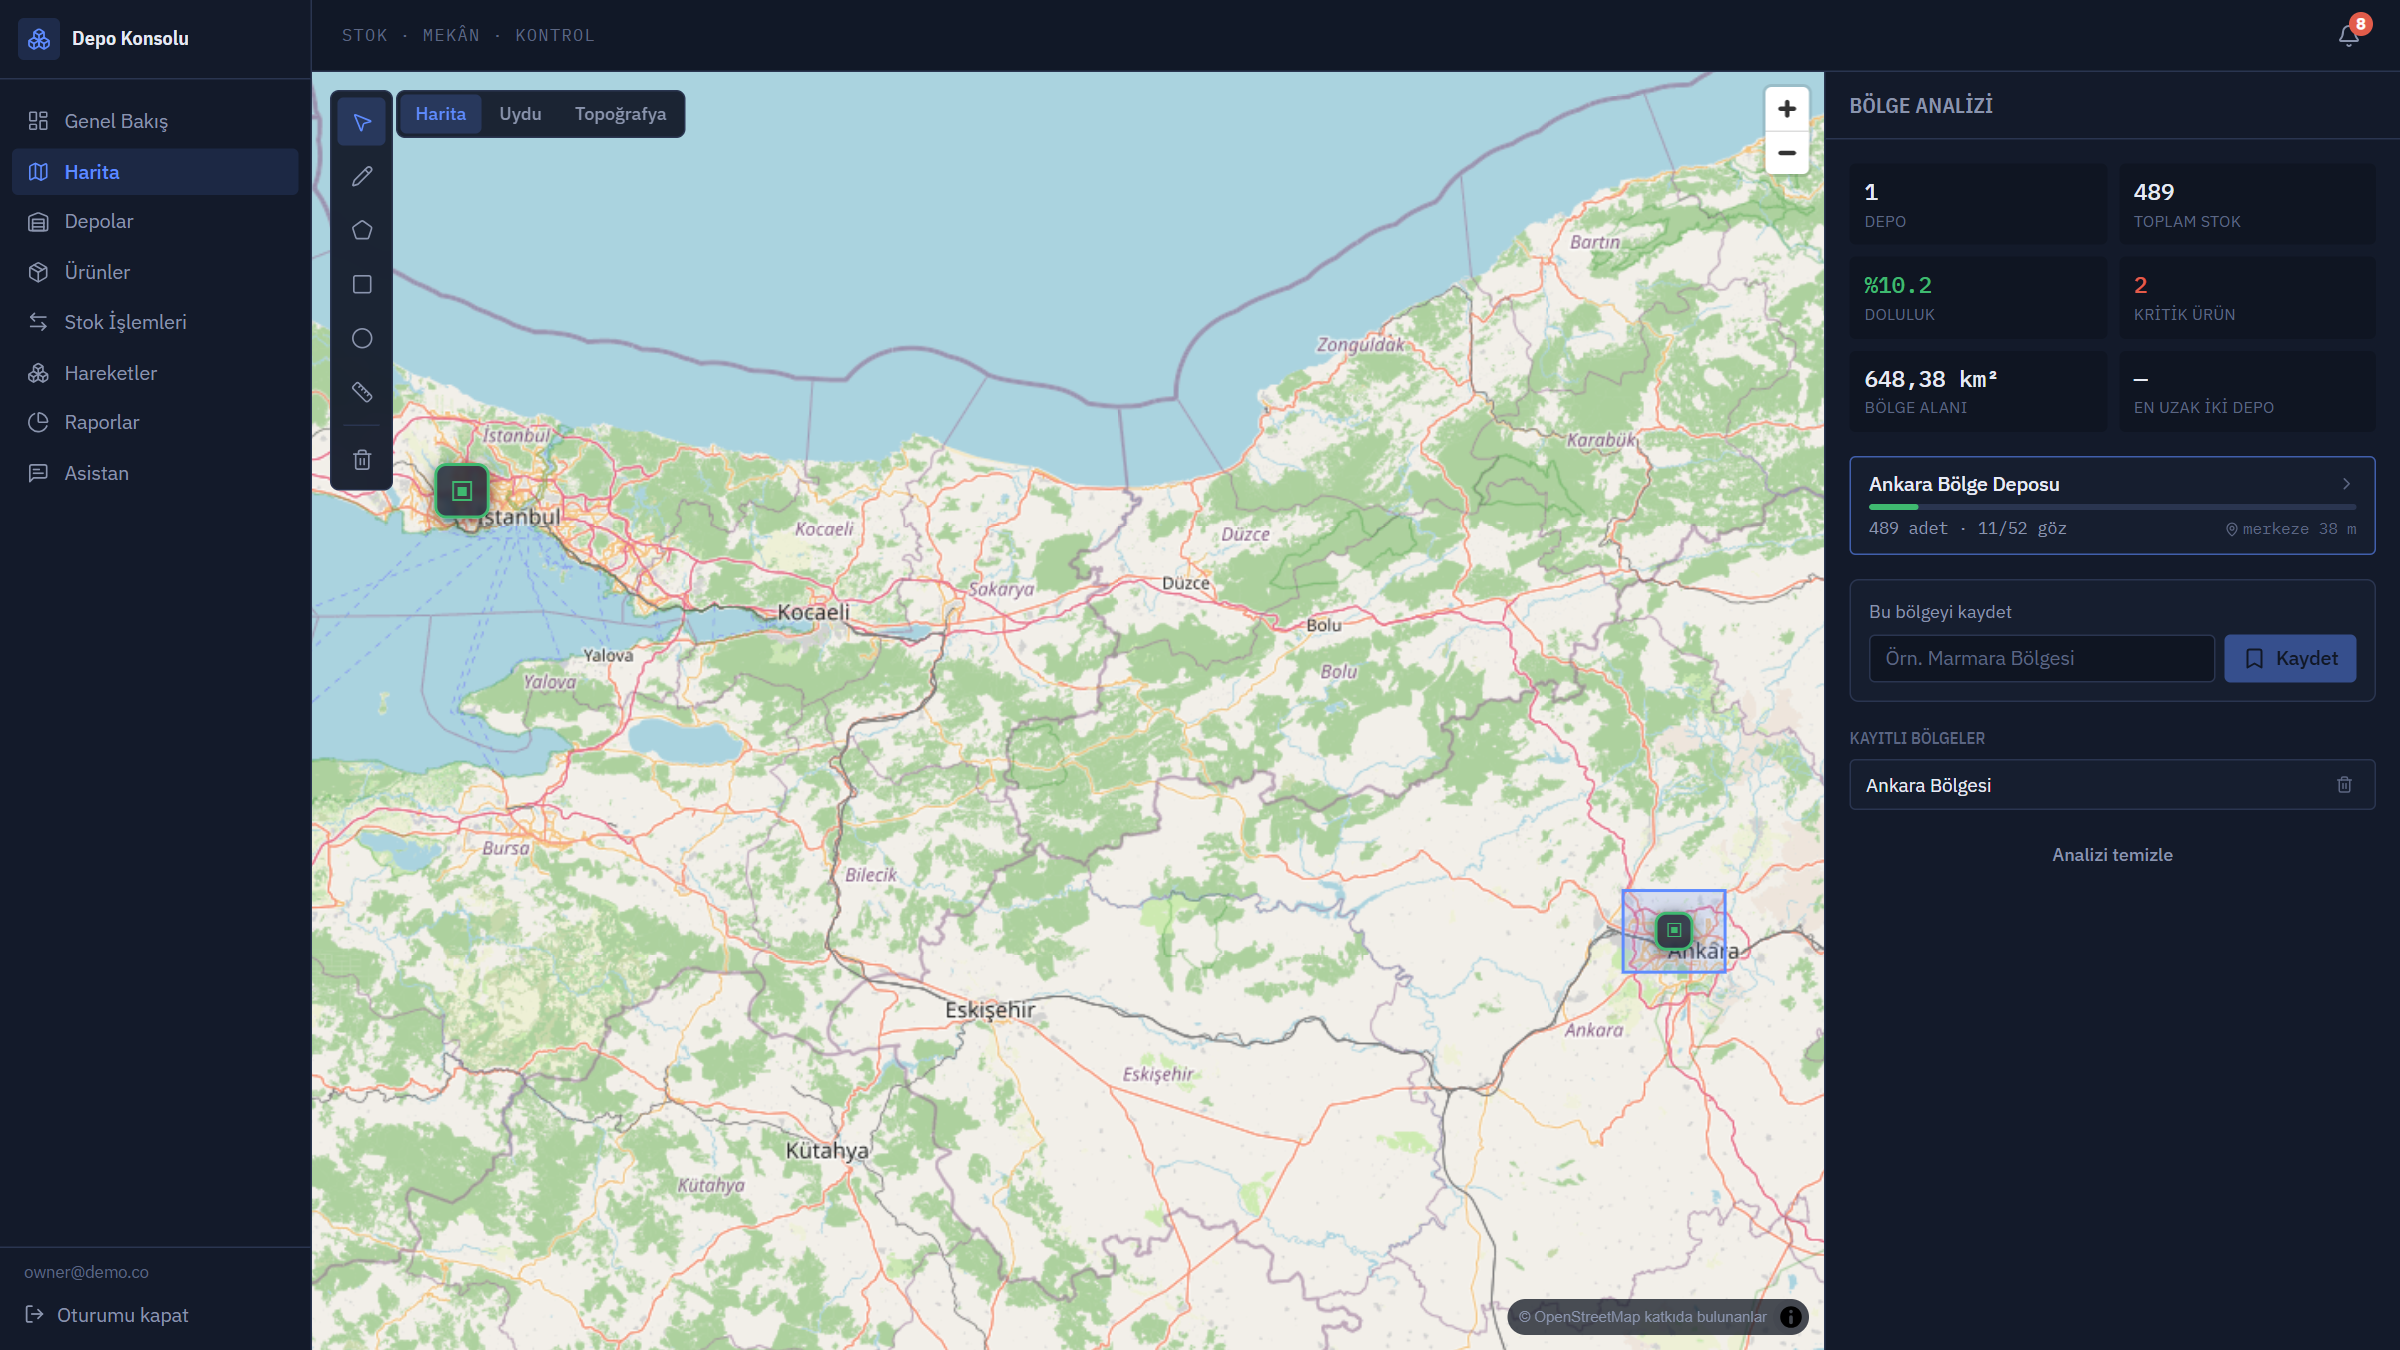
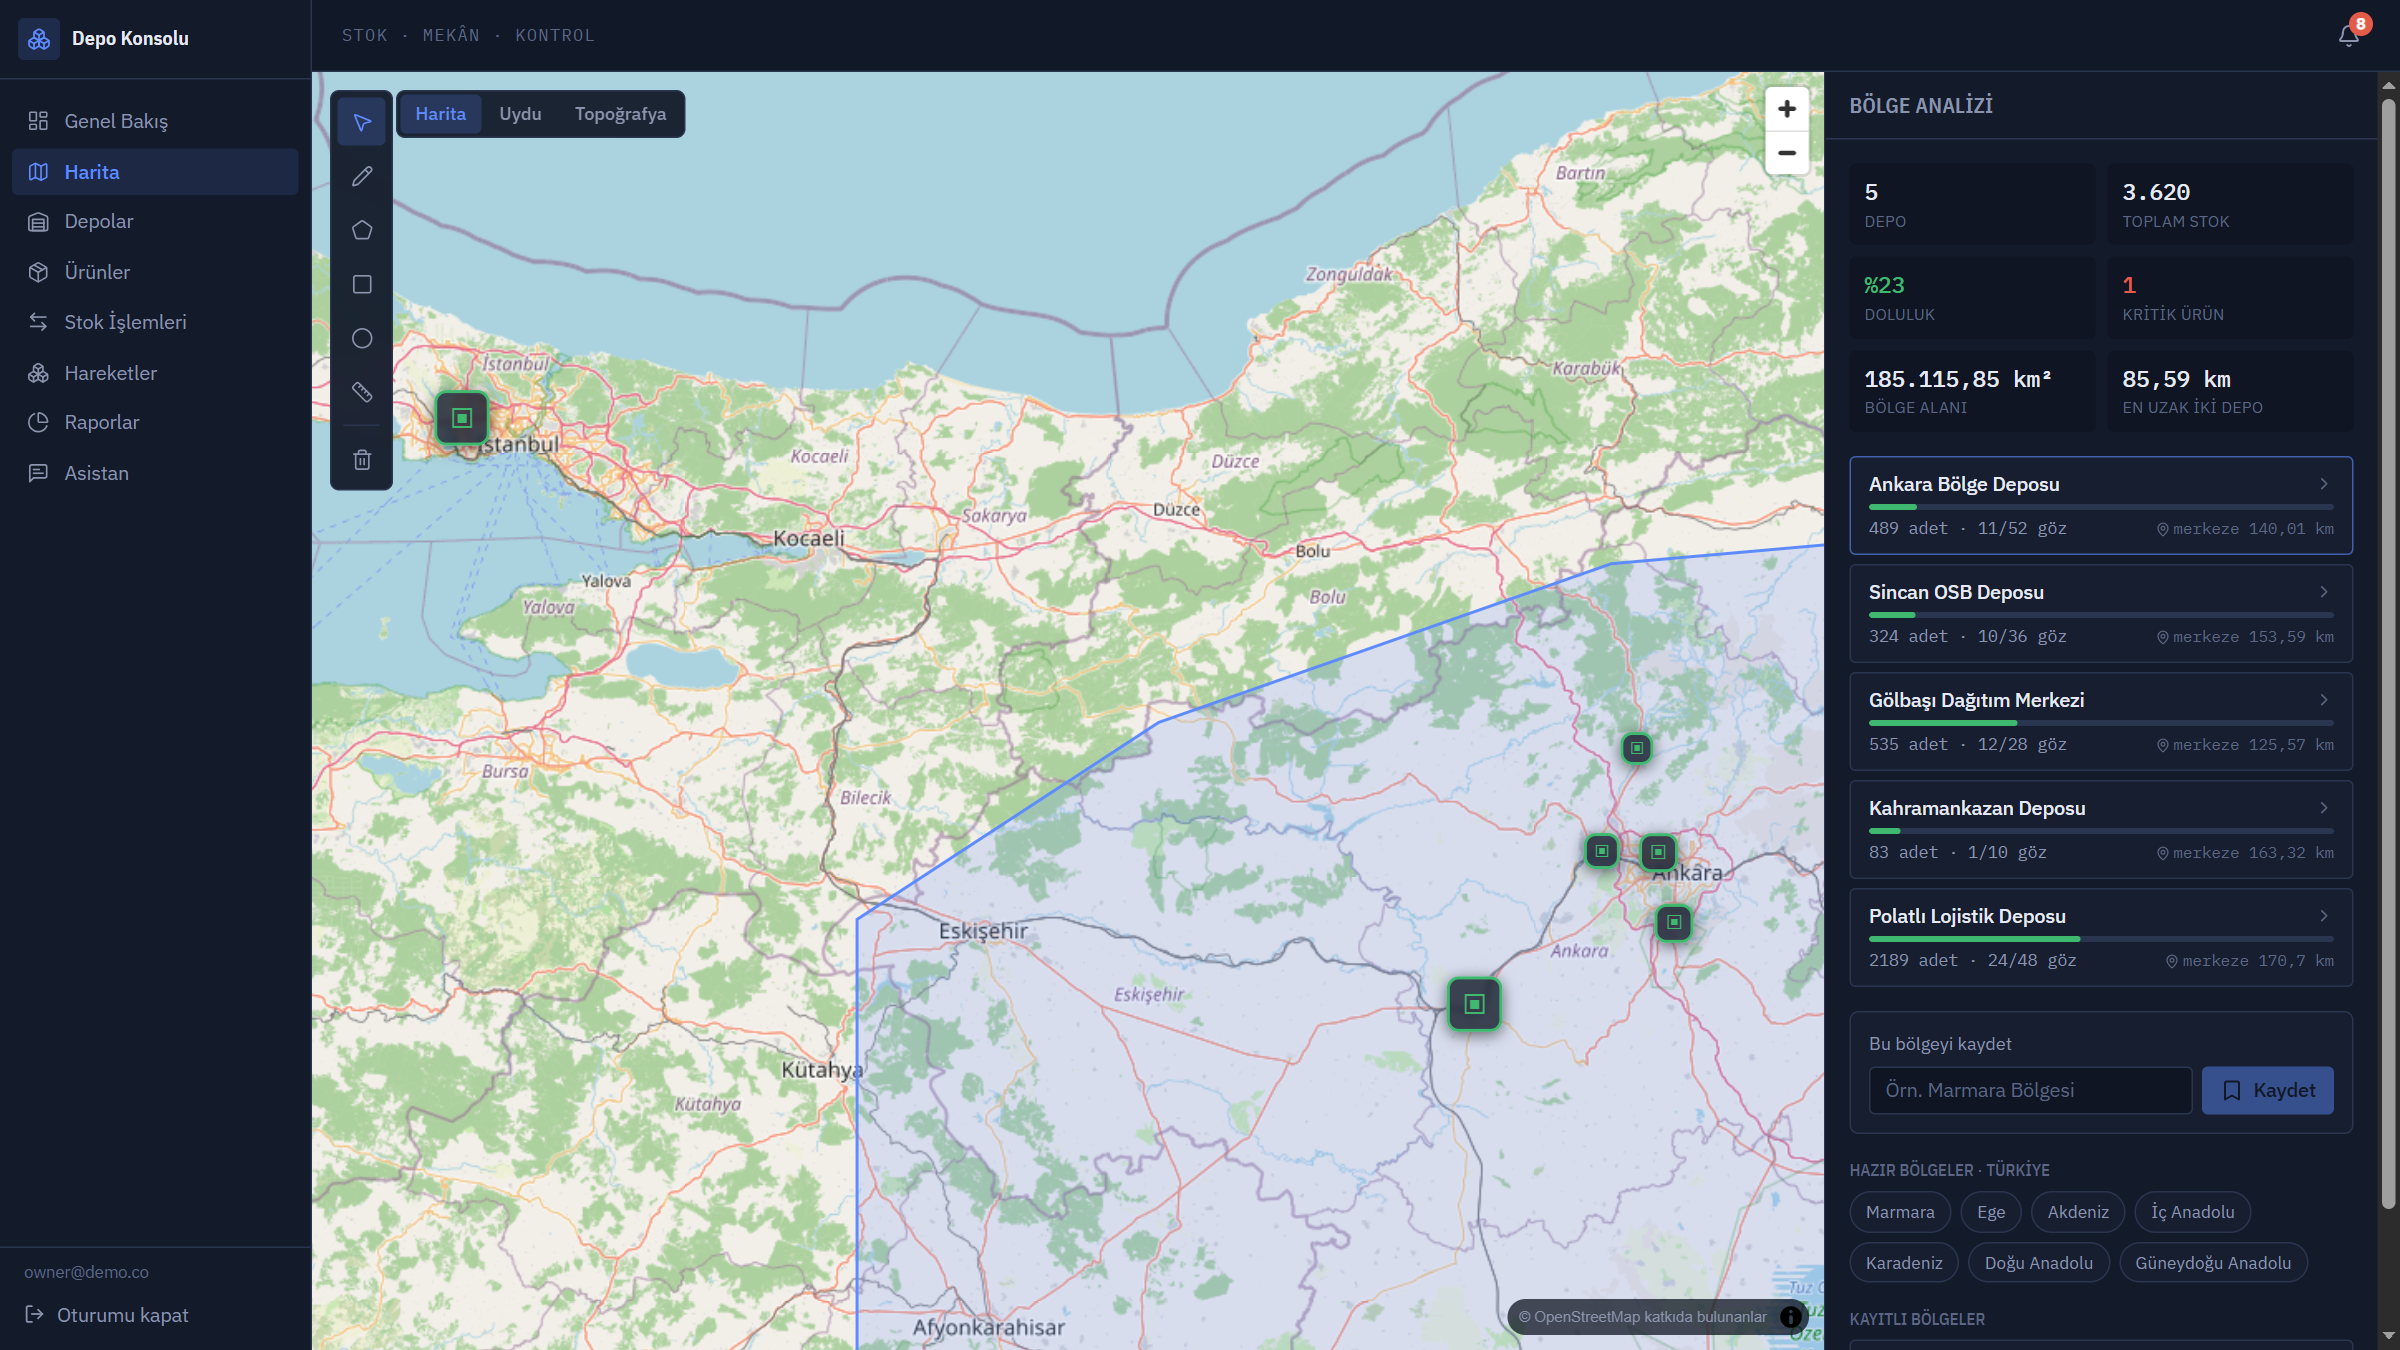
Bölgesel raporlama preset'leri (Türkiye'nin 7 coğrafi bölgesi) + Ankara demo depoları
- Harita çalışma alanına tek tıkla bölge analizi: Marmara, Ege, Akdeniz, İç Anadolu,
  Karadeniz, Doğu Anadolu, Güneydoğu Anadolu hazır poligonları (turkeyRegions.ts)
- Preset doğruluk testleri: her bölge kendi merkez şehrini içerir, komşu bölgeye taşmaz,
  alanlar makul aralıkta (30k-300k km²)
- Seed'e 4 ek Ankara deposu (Sincan OSB, Gölbaşı, Kahramankazan, Polatlı) — isim bazlı
  idempotent; İç Anadolu bölge raporu artık 5 depoyu kapsıyor
- README harita görseli İç Anadolu analiziyle yenilendi

diff --git a/frontend/src/features/map/turkeyRegions.ts b/frontend/src/features/map/turkeyRegions.ts
@@ -1,0 +1,82 @@
+/** Türkiye'nin 7 coğrafi bölgesi — hazır analiz preset'leri.
+ *
+ * Poligonlar yaklaşık bölge sınırlarıdır (analiz amaçlı, idari sınır değil).
+ * Ring'ler saat yönünün tersine, kapatma noktası olmadan tutulur;
+ * kapatmayı geometry.ts / backend halleder.
+ */
+
+import type { LatLng } from "@/types";
+
+export interface RegionPreset {
+  id: string;
+  name: string;
+  ring: LatLng[];
+}
+
+const ring = (pairs: [number, number][]): LatLng[] =>
+  pairs.map(([lat, lng]) => ({ lat, lng }));
+
+export const TURKEY_REGIONS: RegionPreset[] = [
+  {
+    id: "marmara",
+    name: "Marmara",
+    ring: ring([
+      [42.1, 26.0], [42.0, 28.0], [41.5, 29.6], [41.2, 31.4],
+      [40.3, 31.1], [39.8, 30.1], [39.5, 28.6], [39.5, 27.0],
+      [40.0, 26.0],
+    ]),
+  },
+  {
+    id: "ege",
+    name: "Ege",
+    ring: ring([
+      [39.6, 26.1], [39.5, 28.0], [39.0, 29.4], [38.0, 30.0],
+      [36.9, 29.6], [36.5, 27.2], [37.6, 26.6], [38.4, 26.0],
+    ]),
+  },
+  {
+    id: "akdeniz",
+    name: "Akdeniz",
+    ring: ring([
+      [36.9, 29.6], [38.0, 30.1], [38.4, 31.8], [37.4, 34.0],
+      [38.1, 36.2], [37.9, 37.0], [36.1, 36.4], [35.9, 35.7],
+      [36.1, 32.0], [36.1, 30.0],
+    ]),
+  },
+  {
+    id: "ic-anadolu",
+    name: "İç Anadolu",
+    ring: ring([
+      [39.8, 30.1], [40.3, 31.1], [40.7, 32.6], [40.8, 34.1],
+      [40.3, 36.1], [39.9, 38.6], [38.9, 38.4], [38.1, 36.2],
+      [37.4, 34.0], [38.4, 31.8], [38.0, 30.1],
+    ]),
+  },
+  {
+    id: "karadeniz",
+    name: "Karadeniz",
+    ring: ring([
+      [41.2, 31.4], [42.2, 35.1], [41.2, 38.0], [41.6, 40.0],
+      [41.6, 42.6], [40.4, 41.5], [40.1, 39.8], [40.3, 36.1],
+      [40.8, 34.1], [40.7, 32.6], [40.3, 31.1],
+    ]),
+  },
+  {
+    id: "dogu-anadolu",
+    name: "Doğu Anadolu",
+    ring: ring([
+      [39.9, 38.6], [40.1, 39.8], [40.4, 41.5], [41.6, 42.6],
+      [41.2, 43.7], [39.8, 44.8], [38.4, 44.4], [37.2, 44.3],
+      [37.6, 42.6], [38.4, 41.0], [38.0, 39.0], [38.9, 38.4],
+    ]),
+  },
+  {
+    id: "guneydogu-anadolu",
+    name: "Güneydoğu Anadolu",
+    ring: ring([
+      [37.9, 37.0], [38.0, 37.4], [38.0, 39.0], [38.4, 41.0],
+      [37.6, 42.6], [37.1, 42.6], [36.7, 40.2], [36.6, 38.0],
+      [36.9, 36.7],
+    ]),
+  },
+];

diff --git a/frontend/src/features/map/turkeyRegions.test.ts b/frontend/src/features/map/turkeyRegions.test.ts
@@ -1,0 +1,44 @@
+import { describe, expect, it } from "vitest";
+import { booleanPointInPolygon, point } from "@turf/turf";
+import { TURKEY_REGIONS } from "@/features/map/turkeyRegions";
+import { polygonAreaM2, ringToFeature } from "@/features/map/geometry";
+
+const CITY_IN_REGION: Record<string, [number, number]> = {
+  marmara: [41.01, 28.98], // İstanbul
+  ege: [38.42, 27.14], // İzmir
+  akdeniz: [36.9, 30.7], // Antalya
+  "ic-anadolu": [39.93, 32.85], // Ankara
+  karadeniz: [41.0, 39.72], // Trabzon
+  "dogu-anadolu": [39.9, 41.27], // Erzurum
+  "guneydogu-anadolu": [37.91, 40.24], // Diyarbakır
+};
+
+describe("TURKEY_REGIONS presets", () => {
+  it("defines 7 regions with valid rings", () => {
+    expect(TURKEY_REGIONS).toHaveLength(7);
+    for (const region of TURKEY_REGIONS) {
+      expect(region.ring.length).toBeGreaterThanOrEqual(3);
+      // Plausible area: every Turkish region is between 30k and 300k km².
+      const km2 = polygonAreaM2(ringToFeature(region.ring)) / 1e6;
+      expect(km2, `${region.name} alanı`).toBeGreaterThan(30_000);
+      expect(km2, `${region.name} alanı`).toBeLessThan(300_000);
+    }
+  });
+
+  it("contains its landmark city in each region", () => {
+    for (const region of TURKEY_REGIONS) {
+      const [lat, lng] = CITY_IN_REGION[region.id];
+      const inside = booleanPointInPolygon(point([lng, lat]), ringToFeature(region.ring));
+      expect(inside, `${region.name} kendi şehir noktasını içermeli`).toBe(true);
+    }
+  });
+
+  it("keeps landmark cities out of neighboring regions", () => {
+    const ankara = point([32.85, 39.93]);
+    const izmir = point([27.14, 38.42]);
+    const marmara = TURKEY_REGIONS.find((r) => r.id === "marmara")!;
+    const icAnadolu = TURKEY_REGIONS.find((r) => r.id === "ic-anadolu")!;
+    expect(booleanPointInPolygon(ankara, ringToFeature(marmara.ring))).toBe(false);
+    expect(booleanPointInPolygon(izmir, ringToFeature(icAnadolu.ring))).toBe(false);
+  });
+});

diff --git a/frontend/src/features/map/AnalysisPanel.tsx b/frontend/src/features/map/AnalysisPanel.tsx
@@ -10,6 +10,7 @@ import {
 } from "@/api/endpoints/geo";
 import { drawingsCleared, ringDrawn } from "@/features/map/mapWorkspaceSlice";
 import { formatArea, formatDistance } from "@/features/map/geometry";
+import { TURKEY_REGIONS } from "@/features/map/turkeyRegions";
 import { apiErrorMessage } from "@/lib/apiError";
 import { Button } from "@/components/ui/button";
 import { Input } from "@/components/ui/input";
@@ -182,6 +183,25 @@ export function AnalysisPanel() {
             </div>
           </>
         ) : null}
+
+        {/* Turkey's geographic regions — one-click regional reports */}
+        <div>
+          <h3 className="mb-1.5 text-[11px] font-medium uppercase tracking-wider text-text-faint">
+            Hazır bölgeler · Türkiye
+          </h3>
+          <div className="flex flex-wrap gap-1.5">
+            {TURKEY_REGIONS.map((region) => (
+              <button
+                key={region.id}
+                onClick={() => dispatch(ringDrawn(region.ring))}
+                title={`${region.name} bölgesindeki depoları analiz et`}
+                className="rounded-full border border-ink-600 bg-ink-800 px-2.5 py-1 text-[11.5px] text-text-muted transition-colors hover:border-accent hover:text-accent"
+              >
+                {region.name}
+              </button>
+            ))}
+          </div>
+        </div>
 
         {/* Saved regions */}
         <div>

diff --git a/frontend/src/features/map/MapWorkspace.test.tsx b/frontend/src/features/map/MapWorkspace.test.tsx
@@ -122,12 +122,12 @@ describe("AnalysisPanel", () => {
     server.use(
       http.get("/api/v1/regions", () =>
         HttpResponse.json([
-          { id: 5, name: "İç Anadolu", ring: RING, created_at: "2026-01-01T00:00:00Z" },
+          { id: 5, name: "Ankara Saham", ring: RING, created_at: "2026-01-01T00:00:00Z" },
         ]),
       ),
     );
     const { store } = renderWithProviders(<AnalysisPanel />);
-    await user.click(await screen.findByRole("button", { name: "İç Anadolu" }));
+    await user.click(await screen.findByRole("button", { name: "Ankara Saham" }));
     expect(store.getState().mapWorkspace.analysisRing).toEqual(RING);
     expect(await screen.findByText("İstanbul Ana Depo")).toBeInTheDocument();
   });

diff --git a/backend/app/seed.py b/backend/app/seed.py
@@ -54,12 +54,128 @@ PRODUCT_CATALOG = [
 ]
 
 
+# Ankara çevresi ek demo depoları — bölgesel raporlama (İç Anadolu) demoları için.
+EXTRA_WAREHOUSES = [
+    {
+        "name": "Sincan OSB Deposu",
+        "address": "Sincan OSB, Sincan/Ankara",
+        "latlng": LatLng(lat=39.9740, lng=32.5690),
+        "width": 30.0,
+        "depth": 20.0,
+        "racks": [
+            RackPlacement(col=3, row=3, w_cells=12, d_cells=2, shelf_count=3,
+                          bins_per_shelf=6, shelf_height=1.5, bin_capacity=90),
+            RackPlacement(col=3, row=12, w_cells=12, d_cells=2, shelf_count=3,
+                          bins_per_shelf=6, shelf_height=1.5, bin_capacity=90),
+        ],
+        "fill": 0.5,
+    },
+    {
+        "name": "Gölbaşı Dağıtım Merkezi",
+        "address": "Gölbaşı, Ankara",
+        "latlng": LatLng(lat=39.7900, lng=32.8080),
+        "width": 25.0,
+        "depth": 18.0,
+        "racks": [
+            RackPlacement(col=2, row=3, w_cells=14, d_cells=2, shelf_count=4,
+                          bins_per_shelf=7, shelf_height=1.4, bin_capacity=60),
+        ],
+        "fill": 0.75,
+    },
+    {
+        "name": "Kahramankazan Deposu",
+        "address": "Kahramankazan, Ankara",
+        "latlng": LatLng(lat=40.2340, lng=32.6850),
+        "width": 20.0,
+        "depth": 15.0,
+        "racks": [
+            RackPlacement(col=2, row=2, w_cells=10, d_cells=2, shelf_count=2,
+                          bins_per_shelf=5, shelf_height=1.8, bin_capacity=120),
+        ],
+        "fill": 0.3,
+    },
+    {
+        "name": "Polatlı Lojistik Deposu",
+        "address": "Polatlı, Ankara",
+        "latlng": LatLng(lat=39.5840, lng=32.1470),
+        "width": 35.0,
+        "depth": 22.0,
+        "racks": [
+            RackPlacement(col=3, row=4, w_cells=16, d_cells=2, shelf_count=3,
+                          bins_per_shelf=8, shelf_height=1.5, bin_capacity=100),
+            RackPlacement(col=3, row=14, w_cells=16, d_cells=2, shelf_count=3,
+                          bins_per_shelf=8, shelf_height=1.5, bin_capacity=100),
+        ],
+        "fill": 0.85,
+    },
+]
+
+
+def _seed_extra_warehouses(db, org_id: int, user_id: int) -> int:
+    """Adds the Ankara demo warehouses if missing (idempotent by name)."""
+    from app.models import StorageLocation
+
+    rng = random.Random(7)
+    products = list(
+        db.scalars(select(Product).where(Product.org_id == org_id).order_by(Product.id)).all()
+    )
+    created = 0
+    for wd in EXTRA_WAREHOUSES:
+        exists = db.scalar(
+            select(Warehouse).where(Warehouse.org_id == org_id, Warehouse.name == wd["name"])
+        )
+        if exists is not None:
+            continue
+        wh = Warehouse(
+            org_id=org_id,
+            name=wd["name"],
+            address=wd["address"],
+            location=geo.latlng_to_point(wd["latlng"]),
+            footprint=geo.footprint_polygon(wd["latlng"], wd["width"], wd["depth"]),
+            local_width=wd["width"],
+            local_depth=wd["depth"],
+        )
+        db.add(wh)
+        db.flush()
+        layout_builder.generate_layout(
+            db, org_id, wh.id,
+            LayoutGenerateRequest(cell_size=0.5, racks=wd["racks"], zone_label="Ana Zon"),
+        )
+        bins = list(
+            db.scalars(
+                select(StorageLocation).where(
+                    StorageLocation.warehouse_id == wh.id, StorageLocation.type == "bin"
+                )
+            ).all()
+        )
+        rng.shuffle(bins)
+        if products:
+            # Fill a share of bins with a green/amber/red spread around wd["fill"].
+            for target in bins[: max(1, int(len(bins) * wd["fill"] * 0.6))]:
+                product = rng.choice(products)
+                capacity = target.capacity or 100
+                ratio = min(1.0, max(0.1, rng.gauss(wd["fill"], 0.25)))
+                stock_service.receive(
+                    db, org_id=org_id, user_id=user_id, product_id=product.id,
+                    location_id=target.id, quantity=max(1, int(capacity * ratio)),
+                    note="Açılış stoğu",
+                )
+        created += 1
+    db.flush()
+    return created
+
+
 def seed() -> None:
     db = SessionLocal()
     try:
         existing = db.scalar(select(User).where(User.email == DEMO_EMAIL))
         if existing is not None:
-            print(f"Seed zaten mevcut ({DEMO_EMAIL}); atlanıyor.")
+            created = _seed_extra_warehouses(db, existing.org_id, existing.id)
+            db.commit()
+            if created:
+                print(f"Temel seed mevcut; {created} ek Ankara deposu eklendi.")
+            else:
+                print(f"Seed zaten mevcut ({DEMO_EMAIL}); atlanıyor.")
             return
 
         rng = random.Random(42)
@@ -220,11 +336,13 @@ def seed() -> None:
                     quantity=1, note="Konsolidasyon",
                 )
 
+        extra = _seed_extra_warehouses(db, org.id, owner.id)
+
         db.commit()
         bin_count = len(bins)
         print(
             f"Seed tamam: org='{org.name}', kullanıcılar: {DEMO_EMAIL} / [email redacted] "
-            f"(şifre: {DEMO_PASSWORD}), {len(warehouses)} depo, {bin_count} göz, "
+            f"(şifre: {DEMO_PASSWORD}), {len(warehouses) + extra} depo, {bin_count} göz, "
             f"{len(products)} ürün."
         )
     except Exception: